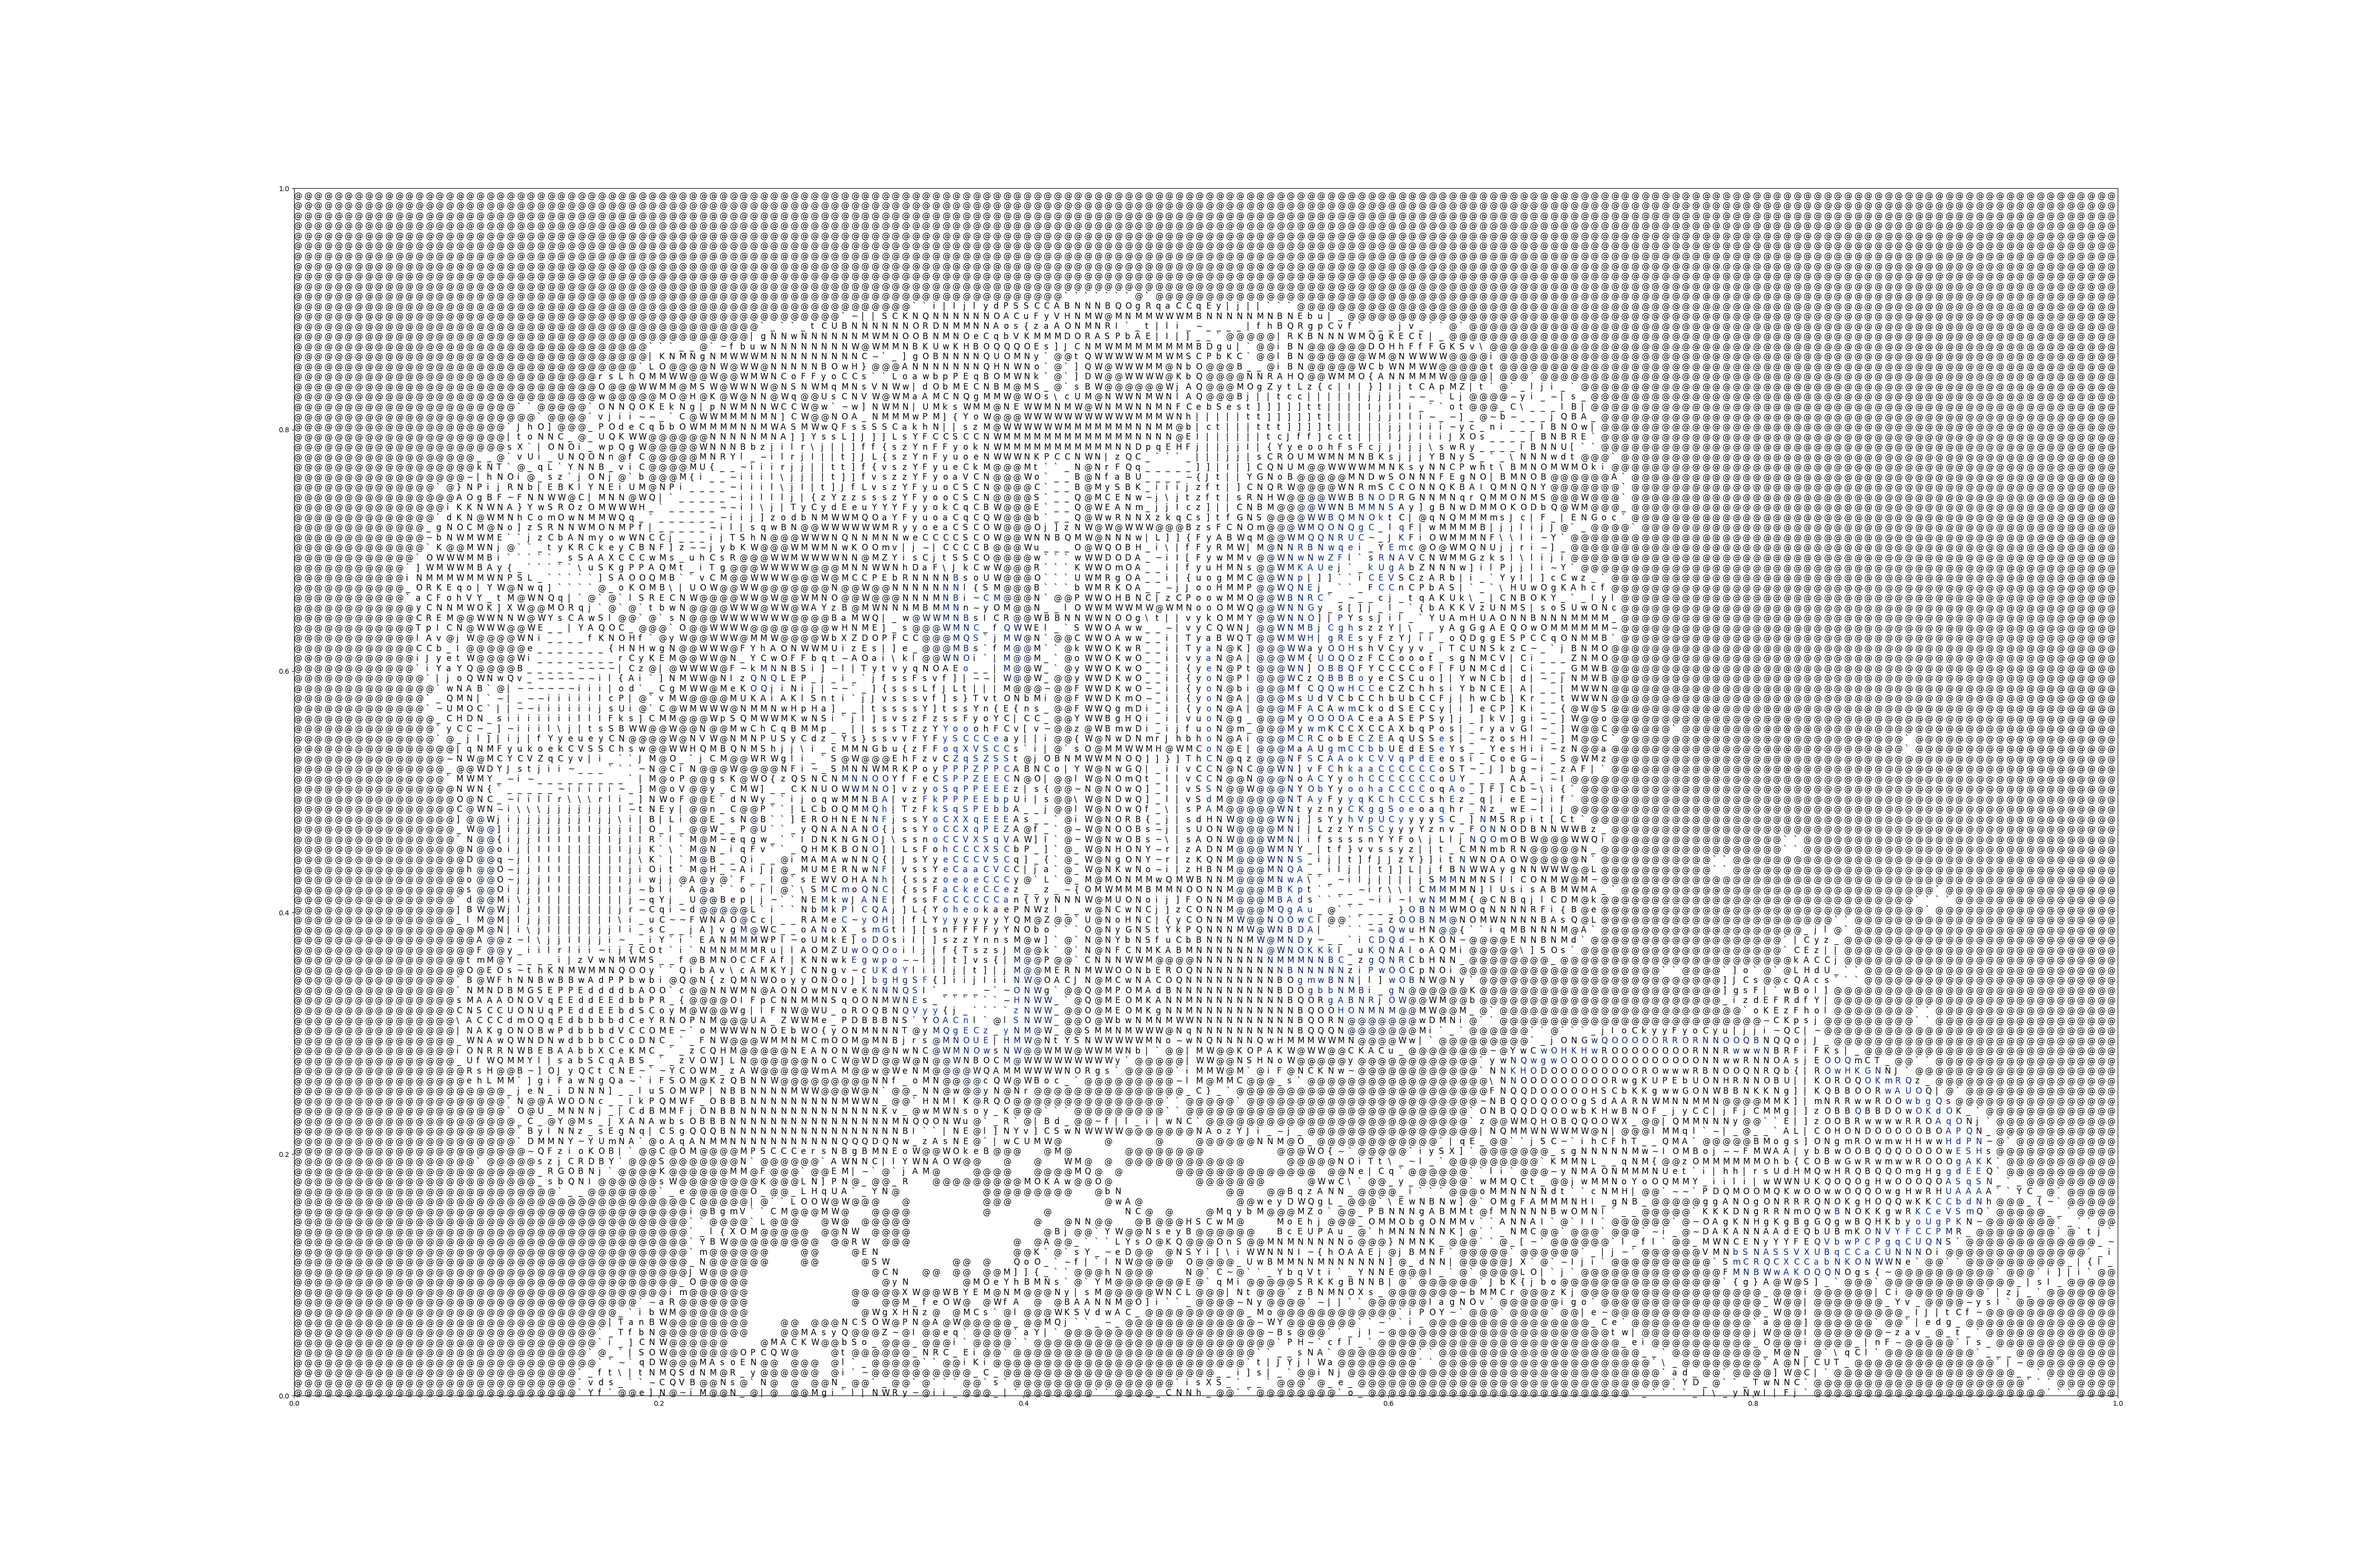
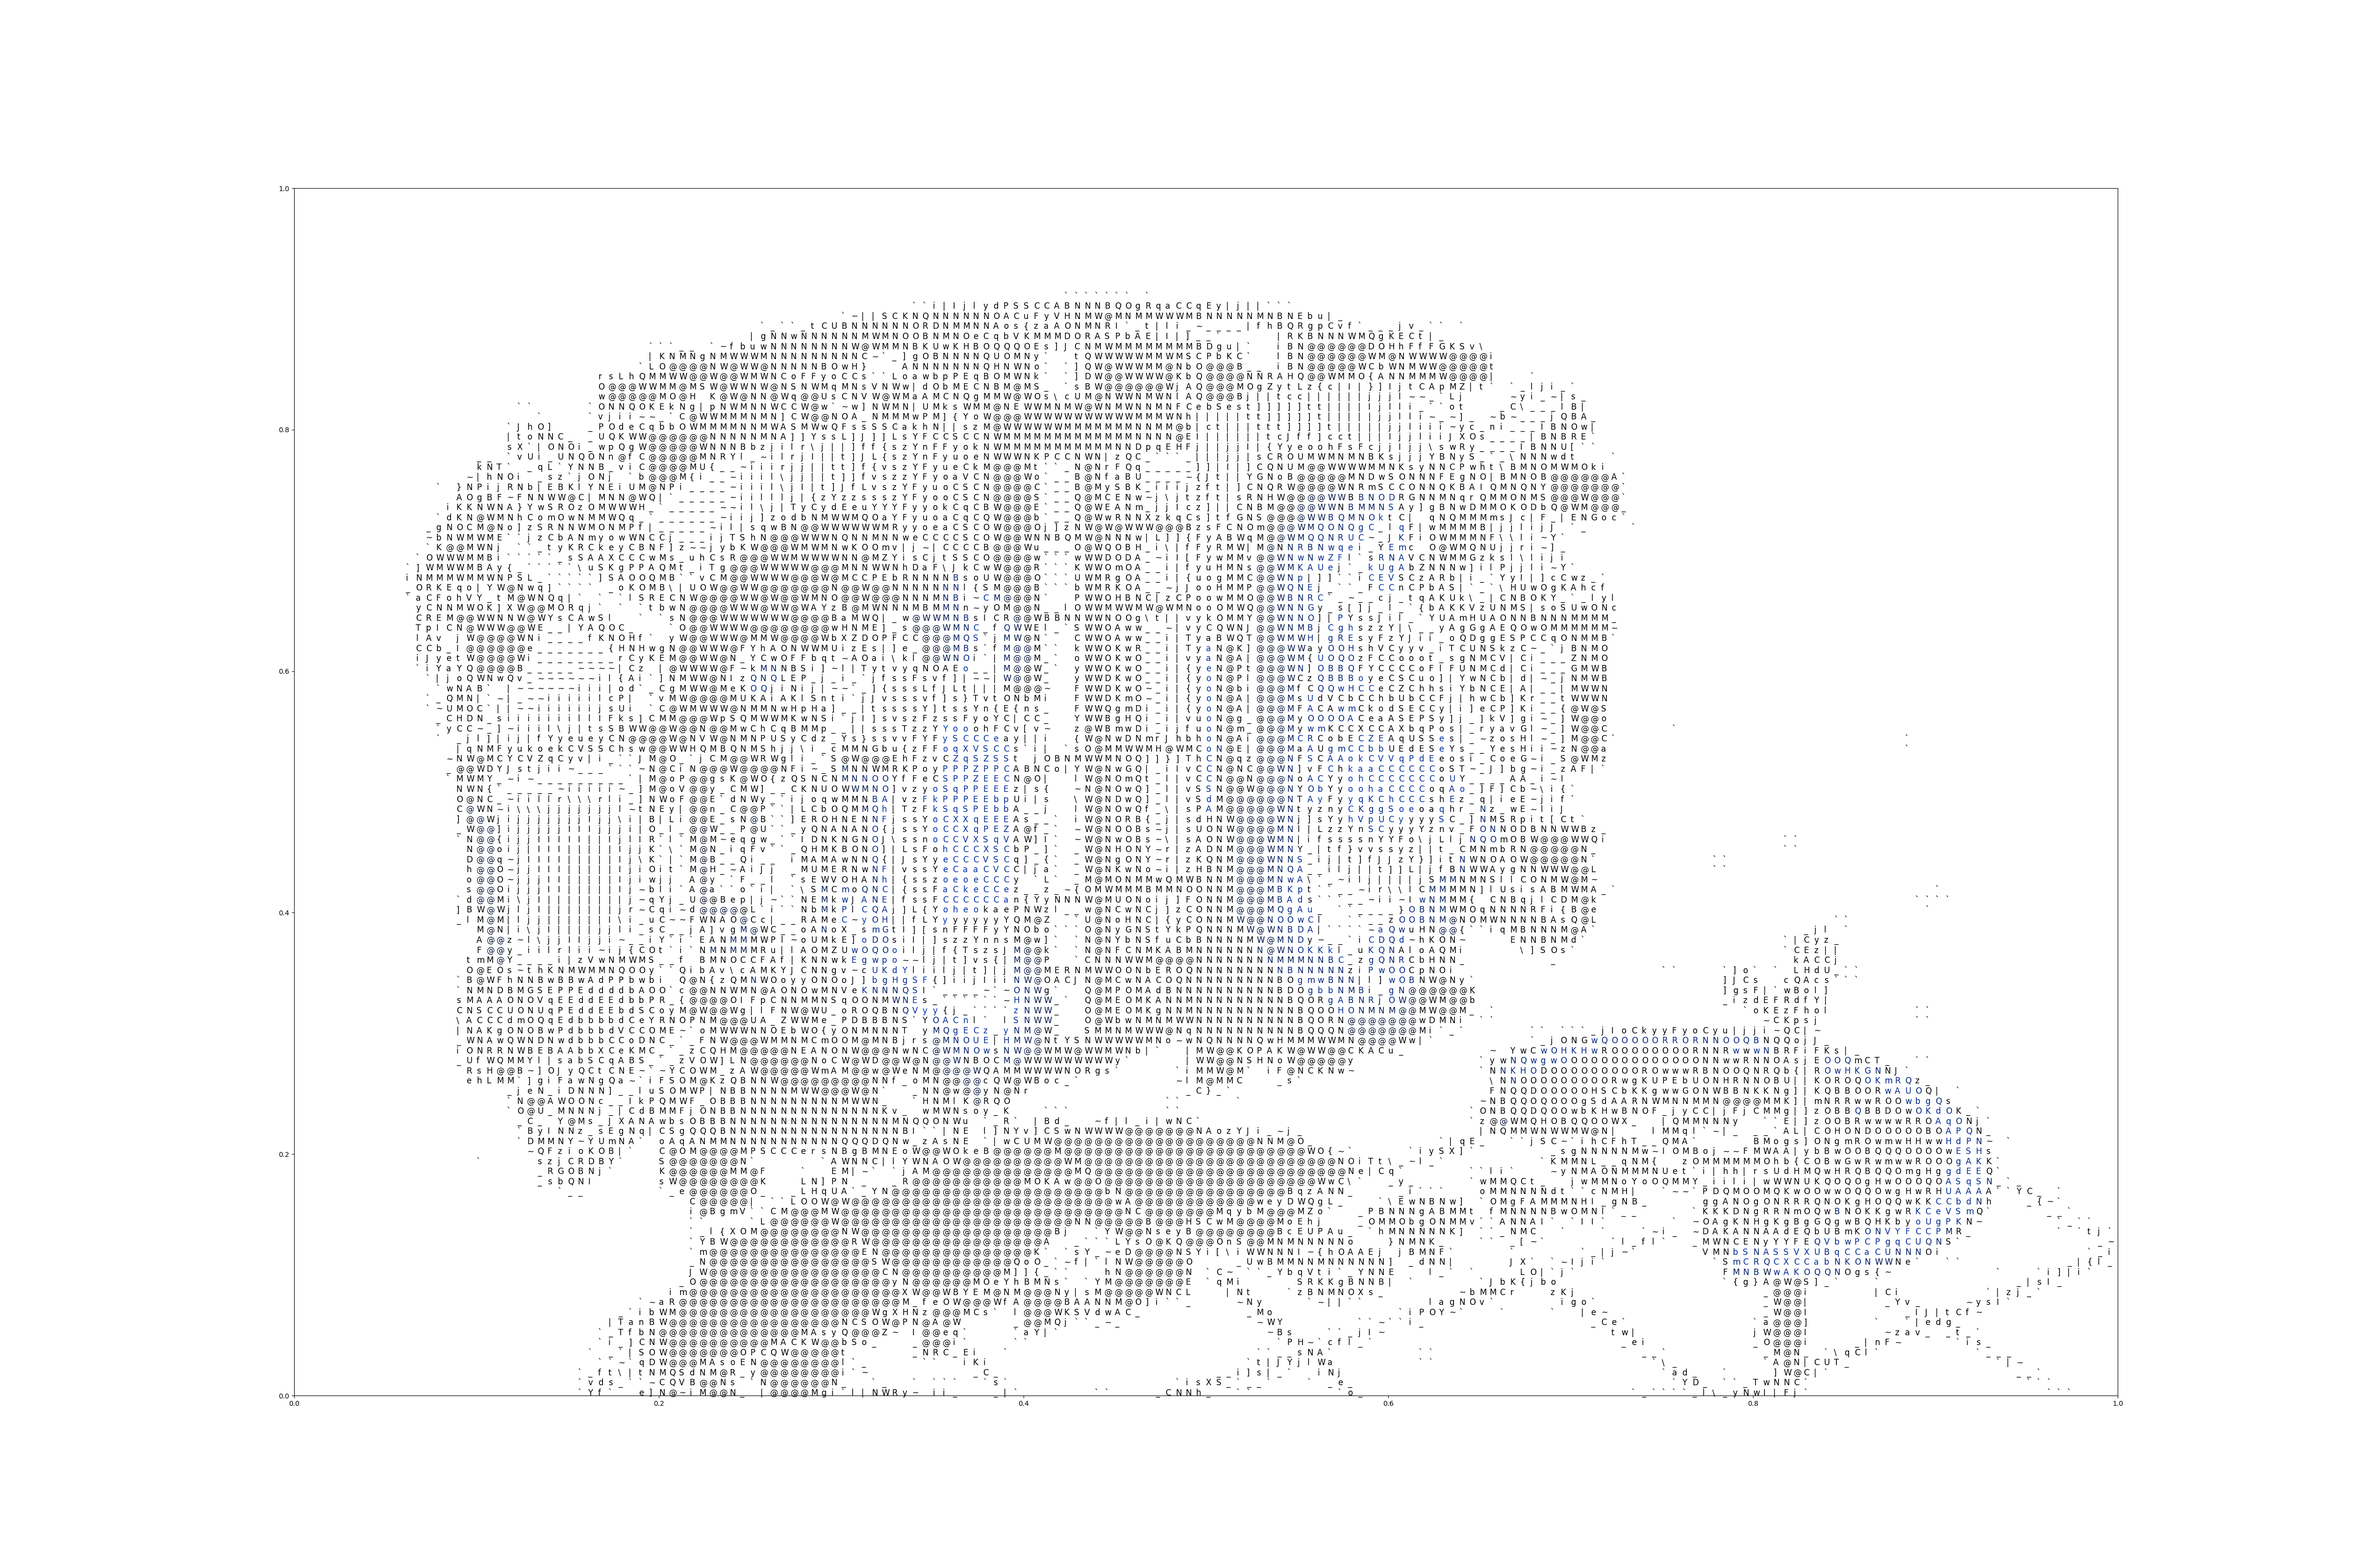
Fix some errors, add threshold arg

Changed region(s): [[0.125, 0.125, 0.9062, 0.9062], [0.375, 0.75, 0.75, 0.9062], [0.5312, 0.875, 0.5625, 0.9062]]

diff --git a/ASCII.py b/ASCII.py
@@ -47,6 +47,12 @@ parser.add_argument(
     type=int,
     help="Output width and height",
 )
+parser.add_argument(
+    "--threshold",
+    default=0.85,
+    type=float,
+    help="Threshold for theme color",
+)
 
 args = parser.parse_args()
 
@@ -99,7 +105,7 @@ for i in range(h):
     x.append(j)
     y.append(h-1-i)
     bright=(nIMG[i][j][0]/256+nIMG[i][j][1]/256+nIMG[i][j][2]/256)/3
-    if inner_product((int(nIMG[i][j][0]),int(nIMG[i][j][1]),int(nIMG[i][j][2])))>0.85:
+    if inner_product((int(nIMG[i][j][0]),int(nIMG[i][j][1]),int(nIMG[i][j][2])))>args.threshold:
       c.append((bright*tar_color[0]/256,bright*tar_color[1]/256,bright*tar_color[2]/256))
     else:
       c.append((0,0,0))
@@ -108,7 +114,7 @@ for i in range(h):
       if bright<=sort_bright[k][0]:
         c_temp=k
         break
-    if bright>0.00:
+    if bright<=sort_bright[NC-1][0]:
       char.append(sort_bright[c_temp][1])
     else:
       char.append(' ')
